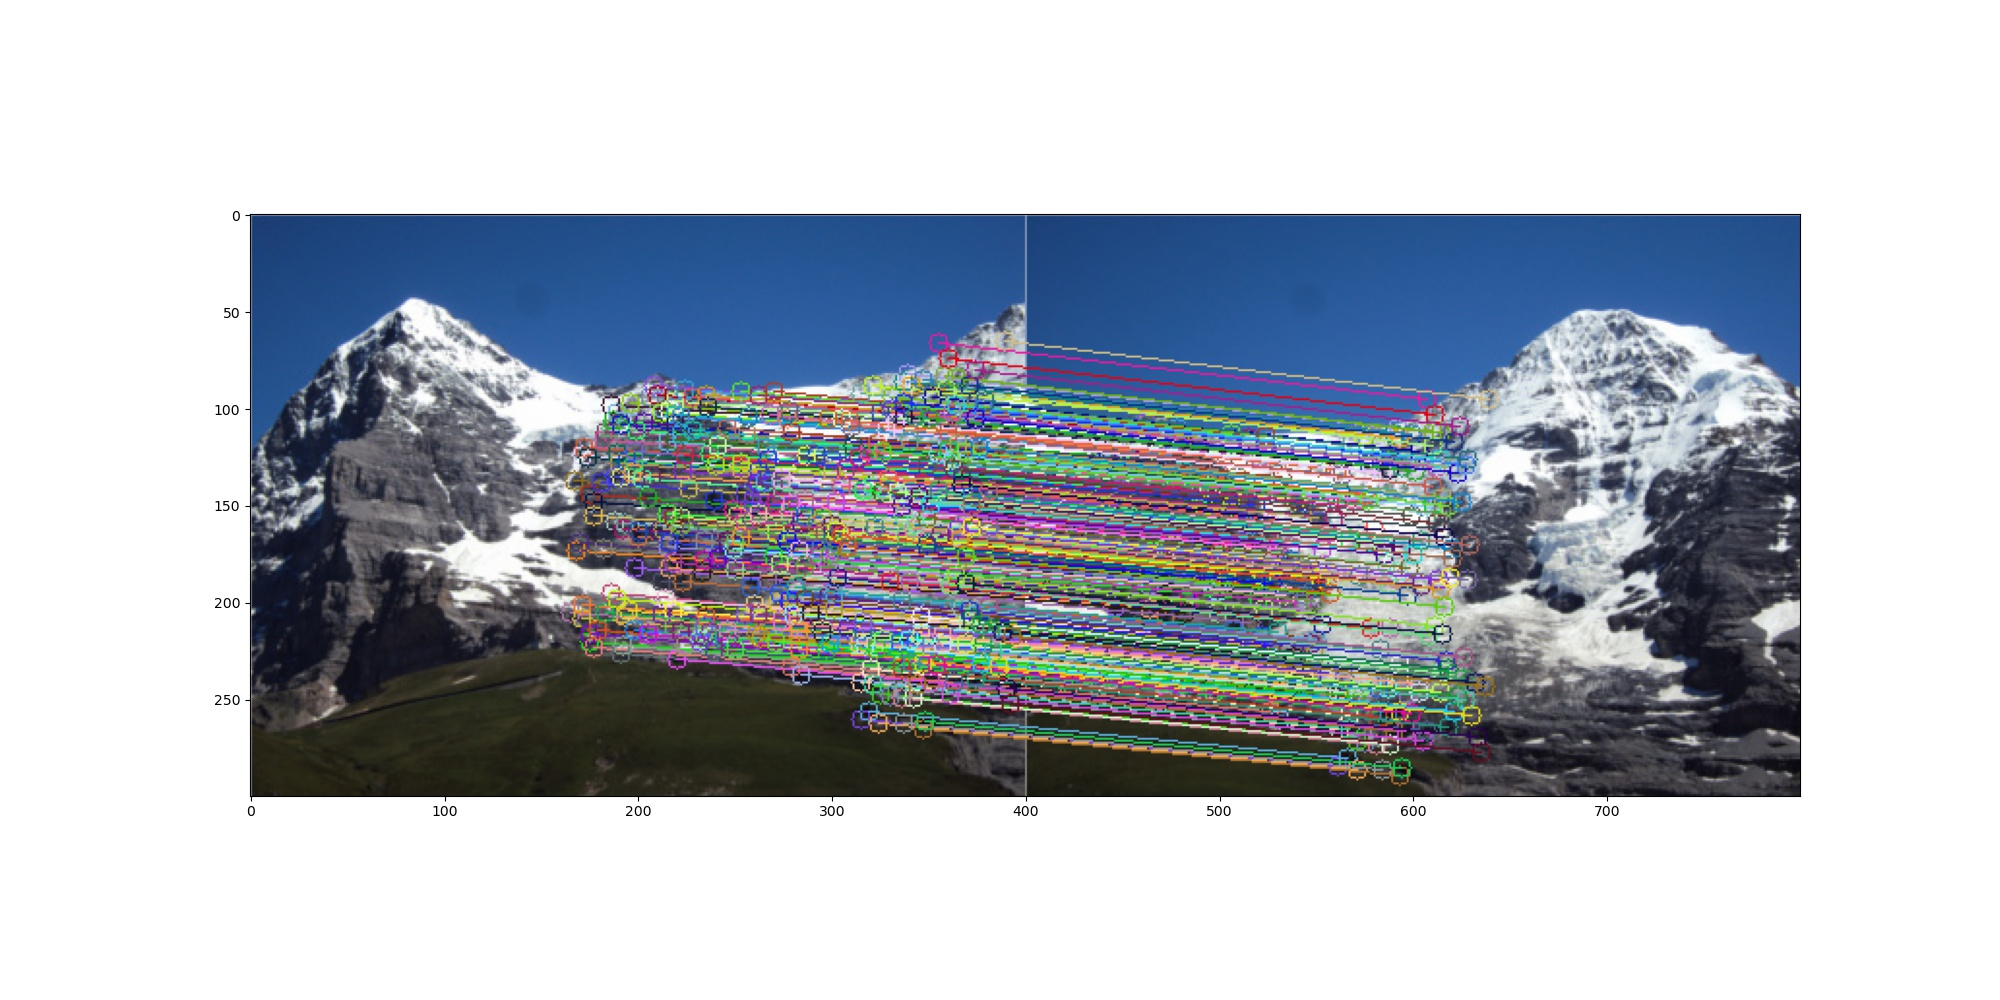
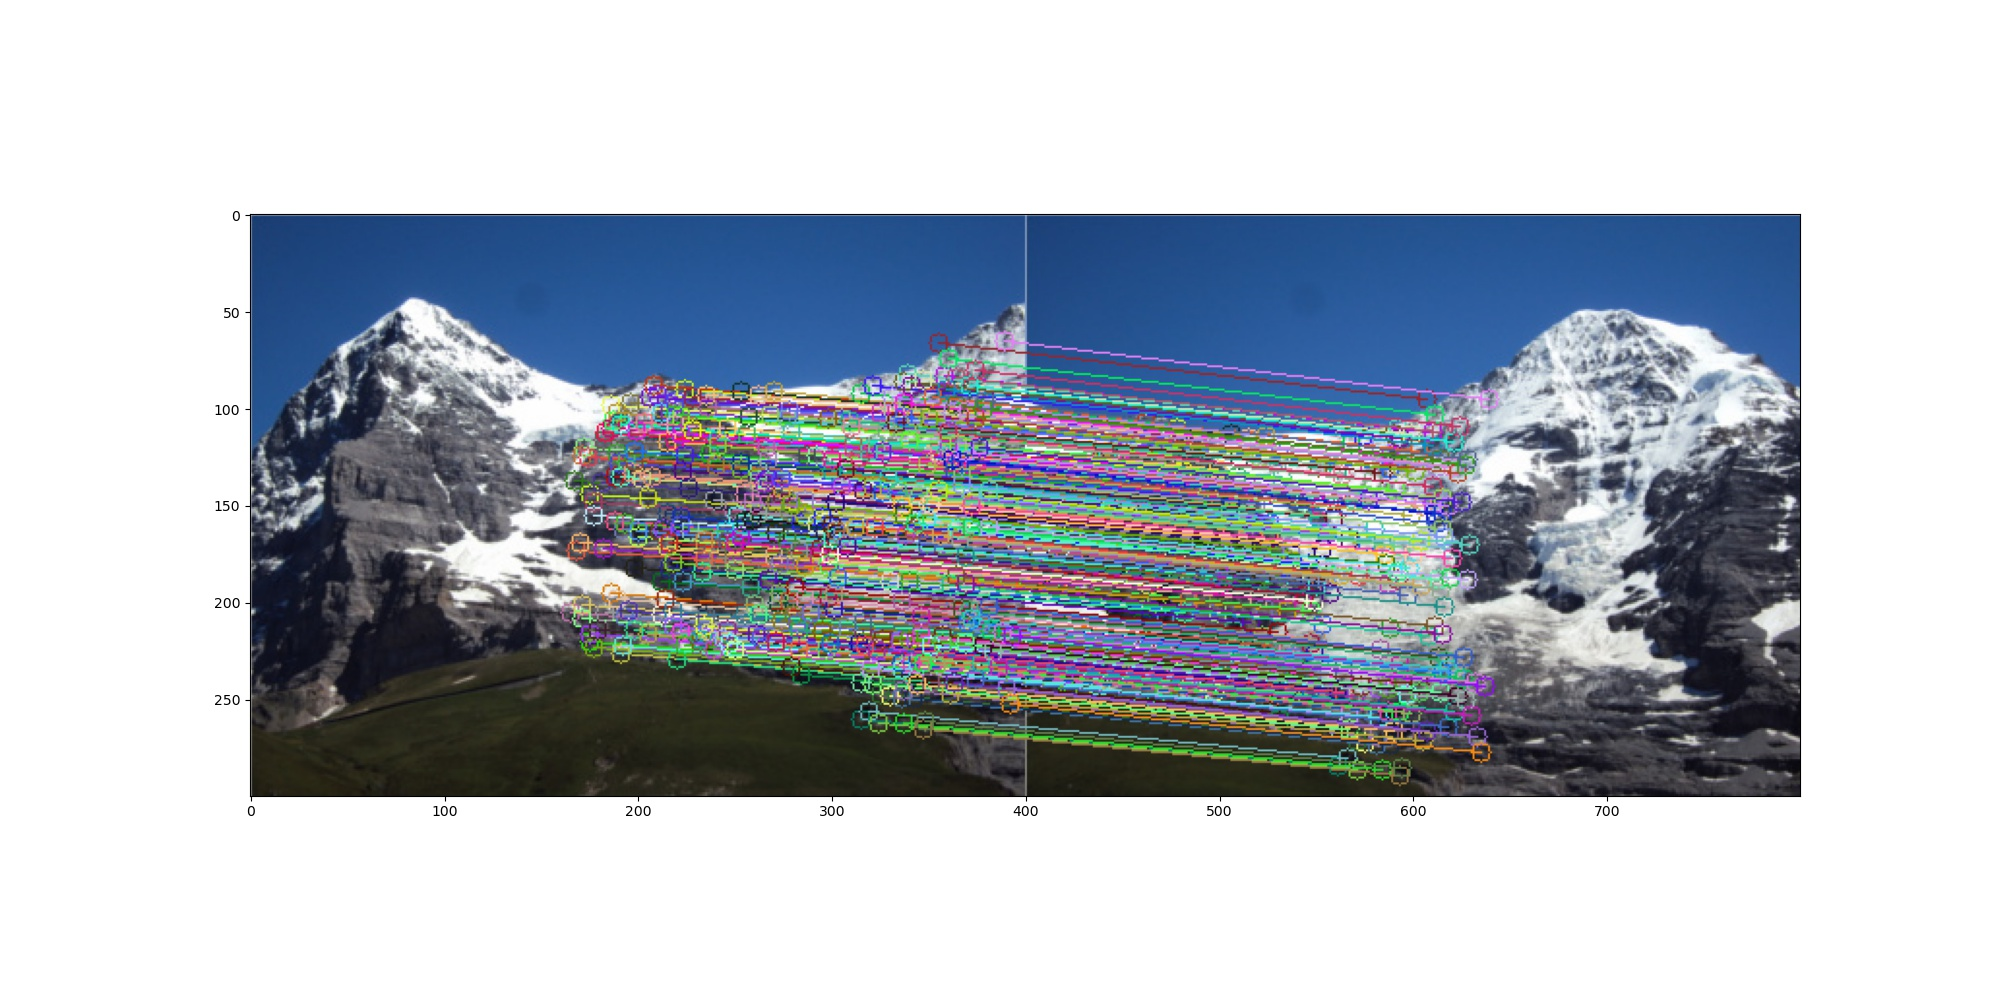
finishRANSAC start image warping

Changed region(s): [[0.279, 0.341, 0.744, 0.775]]

diff --git a/HW3/panoramic_stitching.py b/HW3/panoramic_stitching.py
@@ -2,6 +2,7 @@ import cv2
 import numpy as np
 import matplotlib.pyplot as plt
 import scipy.spatial
+import math
 
 
 DATA_PATH = "./data"
@@ -82,35 +83,40 @@ def find_homography(coor1, coor2, coor3, coor4):
     p1[3, :] = [coor4[0], coor4[1]]
     p2[3, :] = [coor4[2], coor4[3]]
     for i in range(4):
-        H[i, :] = [
-            p1[i][1],
-            p1[i][0],
-            1,
-            0,
-            0,
-            0,
-            -p2[i][1] * p1[i][1],
-            -p2[i][1] * p1[i][0],
-            -p2[i][1],
-        ]
-        H[2 * i + 1, :] = [
-            0,
-            0,
-            0,
-            p1[i][1],
-            p1[i][0],
-            1,
-            -p2[i][0] * p1[i][1],
-            -p2[i][0] * p1[i][0],
-            -p2[i][0],
-        ]
-        [U, S, V] = np.linalg.svd(H)
-        homography = V[-1, :]
-        homography = np.reshape(homography, (3, 3))
-        return homography
+        x, y = p1[i]
+        x_prime, y_prime = p2[i]
+        H[2*1,:] =[x, y, 1, 0, 0, 0, -x*x_prime, -y*x_prime, -x_prime]
+        H[2*i+1,:]=[0, 0, 0, x, y, 1, -x*y_prime, -y*y_prime, -y_prime]
+    
+    # solve PH=0, H is the last column of v
+    #u, s, vh = np.linalg.svd(H) # vh (9,9)
+    #homography = (vh.T[:,-1] / vh[-1,-1]).reshape(3, 3)
+    homography,_=cv2.findHomography(p1,p2)
+    #homography=np.array(homography)
+    #print(homography)
+    #print(homography.shape)
+    return homography
+
+
+def count_inliers(correspondence,homography):
+    inliers=0
+    for i in range(correspondence.shape[0]):
+        src=[correspondence[i][0],correspondence[i][1],1]
+        dest=[correspondence[i][2],correspondence[i][3],1]
+        src=np.array(src)
+        dest=np.array(dest)
+        pred=homography@src.T
+        pred/=pred[2]
+        loss=np.sum(abs(pred-dest))
+        if loss<1:
+            inliers+=1
+    return inliers
+
 
 
 def RANSAC(correspondence):
+    max_inliers=0
+    j=0
     for i in range(1000):
         rand_choice = list(np.random.random(size=4) * correspondence.shape[0])
         rand_choice = list(map(int, rand_choice))
@@ -119,8 +125,14 @@ def RANSAC(correspondence):
         coor3 = correspondence[rand_choice[2]]
         coor4 = correspondence[rand_choice[3]]
         homography = find_homography(coor1, coor2, coor3, coor4)
-        print(homography)
-        break
+        inliers=count_inliers(correspondence,homography)
+        if inliers>max_inliers:
+            best_H=homography
+            max_inliers=inliers
+    print(max_inliers)
+    print("Best homography:")
+    print(best_H)
+    return homography
 
 
 def feature_matching(desc1, desc2, p1, p2, img1, img2):
@@ -144,6 +156,48 @@ def feature_matching(desc1, desc2, p1, p2, img1, img2):
     return correspondence
 
 
+def decide_out_size(img1,img2,homography):
+    four_corner=np.zeros((4,3))
+    four_corner[0,:]=[0,0,1]
+    four_corner[1,:]=[img1.shape[1],0,1]
+    four_corner[2,:]=[0,img1.shape[0],1]
+    four_corner[3,:]=[img1.shape[1],img1.shape[0],1]
+    min_x=0
+    min_y=0
+    max_y,max_x,_=img2.shape
+    for corner in four_corner:
+        trans_corner=homography@corner.T
+        trans_corner/=trans_corner[2]
+        x,y,_=trans_corner
+        min_x=min(min_x,math.floor(x))
+        min_y=min(min_y,math.floor(y))
+        max_x=max(max_x,math.ceil(x))
+        max_y=max(max_y,math.ceil(y))
+    return min_x,min_y,max_x,max_y
+
+
+def bilinear_interpolation(x,y,img1,img2):
+    x1=math.floor(x)
+    y1=math.floor(y)
+    x2=math.ceil(x)
+    y2=math.ceil(y)
+    for 
+
+def img_warping(img1,img2,homography):
+    min_x,min_y,max_x,max_y=decide_out_size(img1,img2,homography)
+    if min_x<0:
+        offset_x=-min_x
+    else:
+        offset_x=0
+    if min_y<0:
+        offset_y=-min_y
+    else:
+        offset_y=0
+    w=max_x+offset_x
+    h=max_y+offset_y
+    out_image=np.full(())
+    
+
 if __name__ == "__main__":
     image1 = cv2.imread(DATA_PATH + "/hill1.jpg")
     image2 = cv2.imread(DATA_PATH + "/hill2.jpg")
@@ -151,4 +205,5 @@ if __name__ == "__main__":
     correspondence = feature_matching(
         descriptors1, descriptors2, points1, points2, image1, image2
     )
-    RANSAC(correspondence)
+    homography=RANSAC(correspondence)
+    img_warping(image1,image2,homography)
